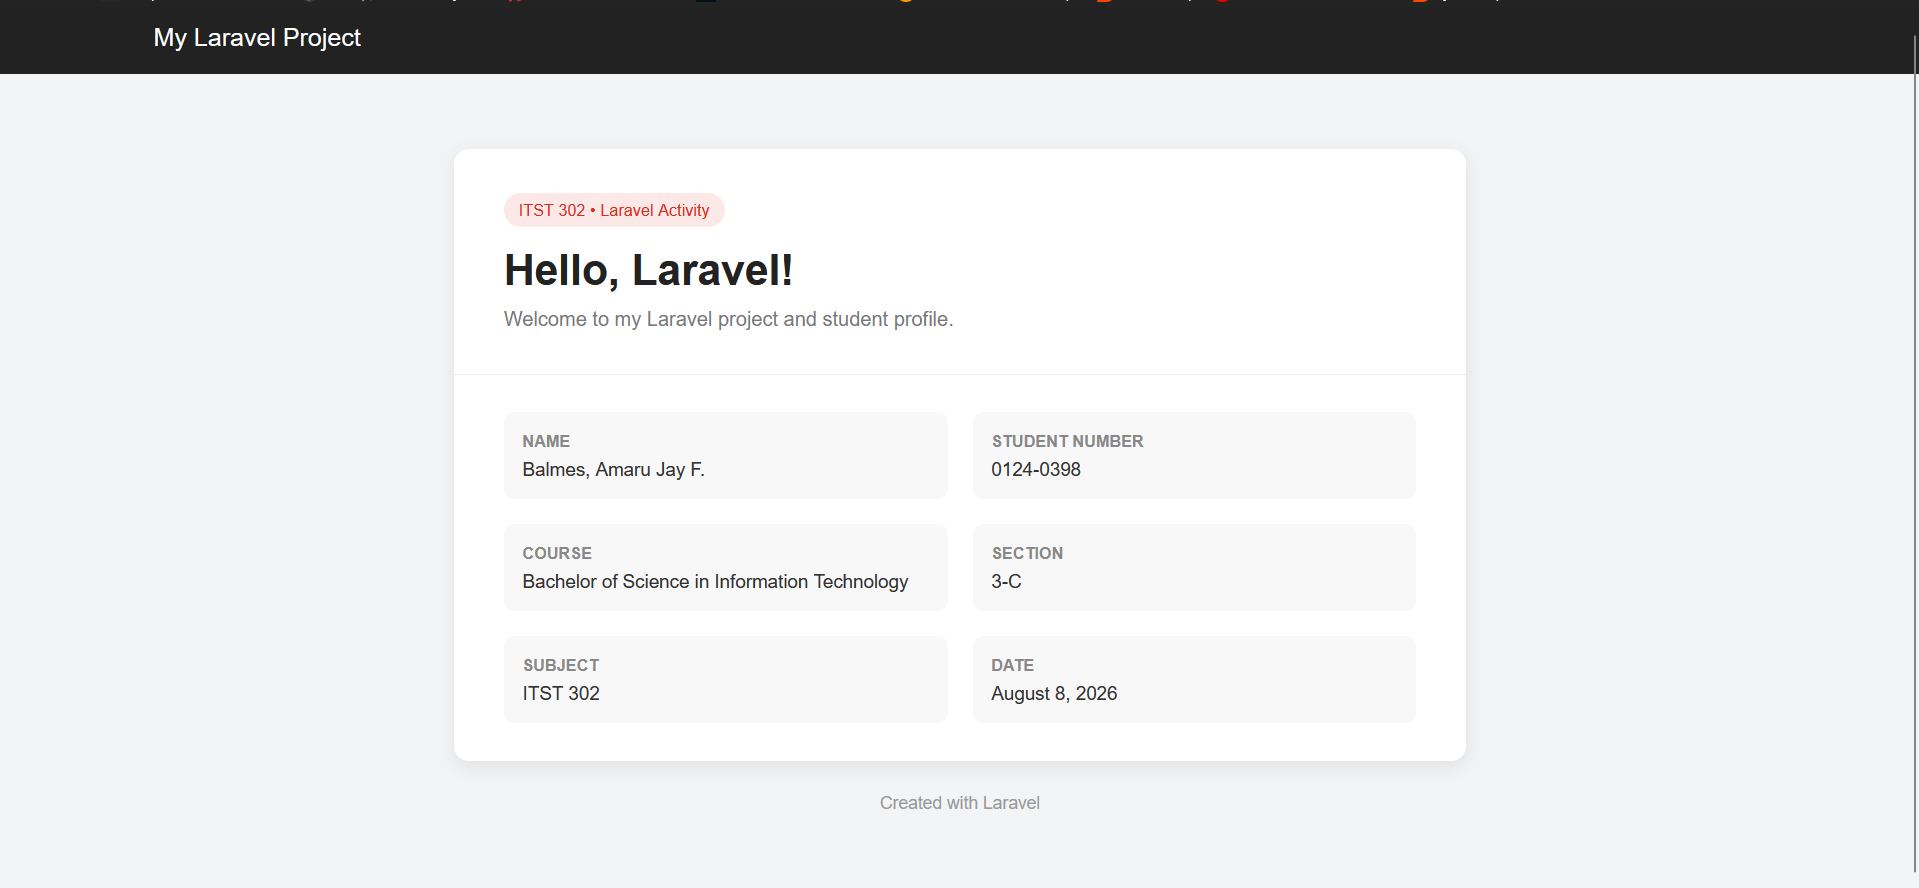
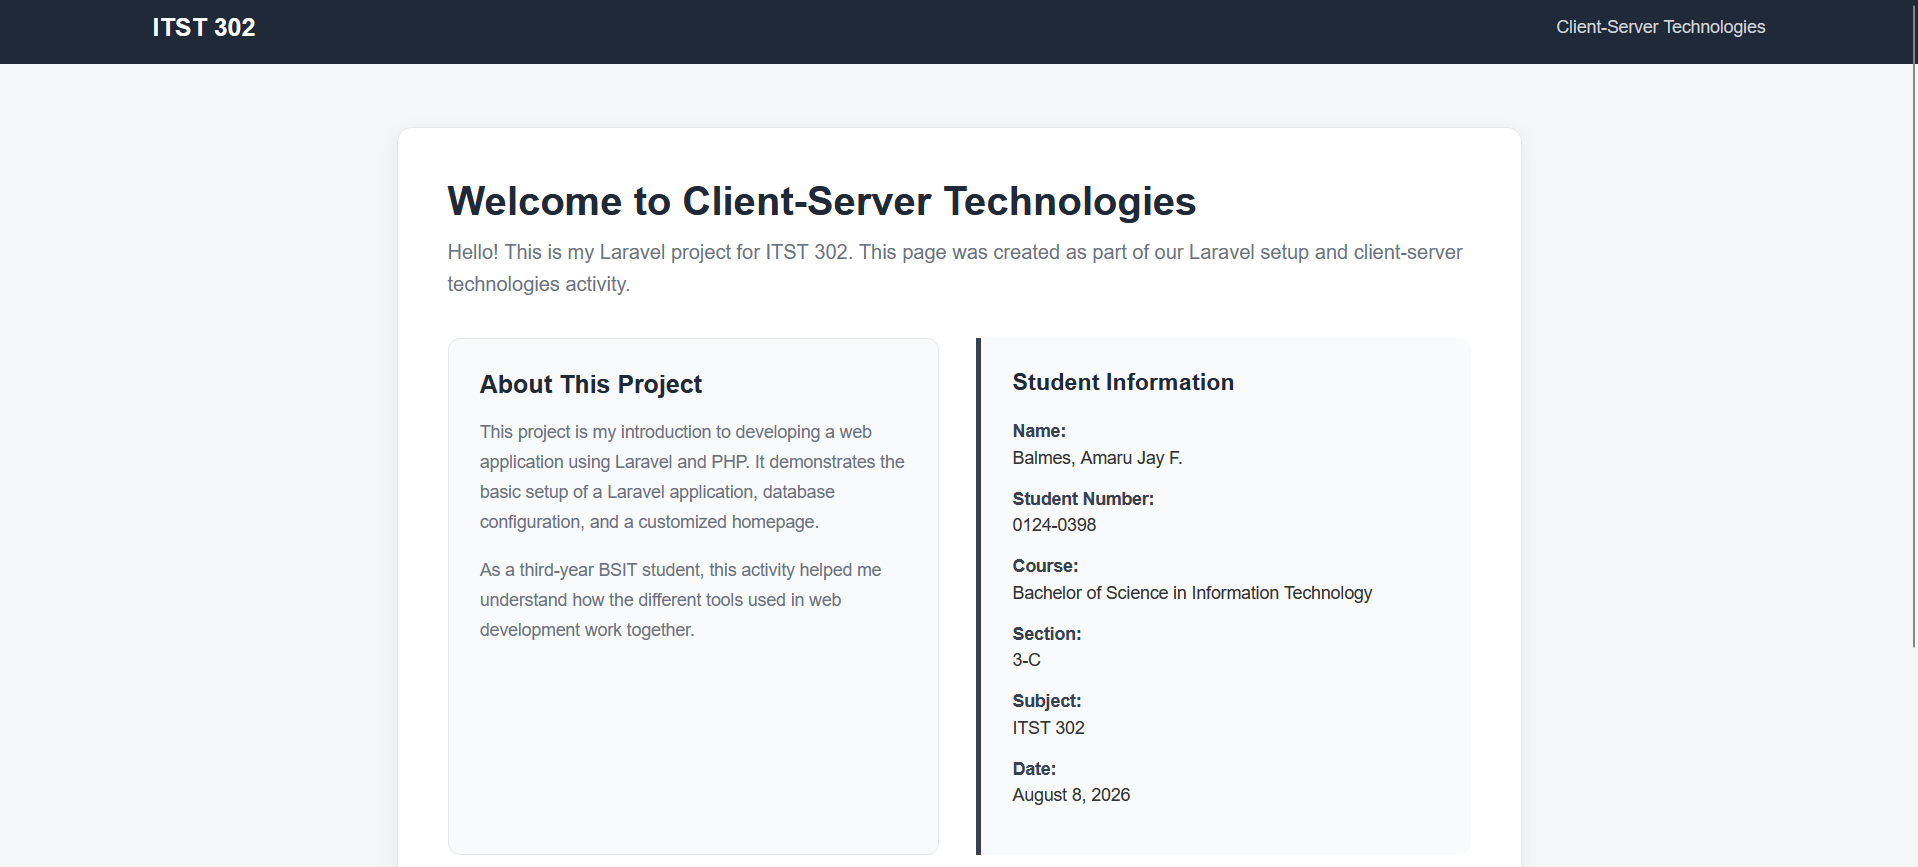
updated screenshots

diff --git a/README.md b/README.md
@@ -670,6 +670,8 @@ docs: added installation screenshots
 feat: updated homepage
 docs: add project README
 style: improve homepage design
+feat: typographical error fixing
+docs: updated screenshots
 ```
 
 The activity required a minimum of five meaningful commits using professional commit messages.
